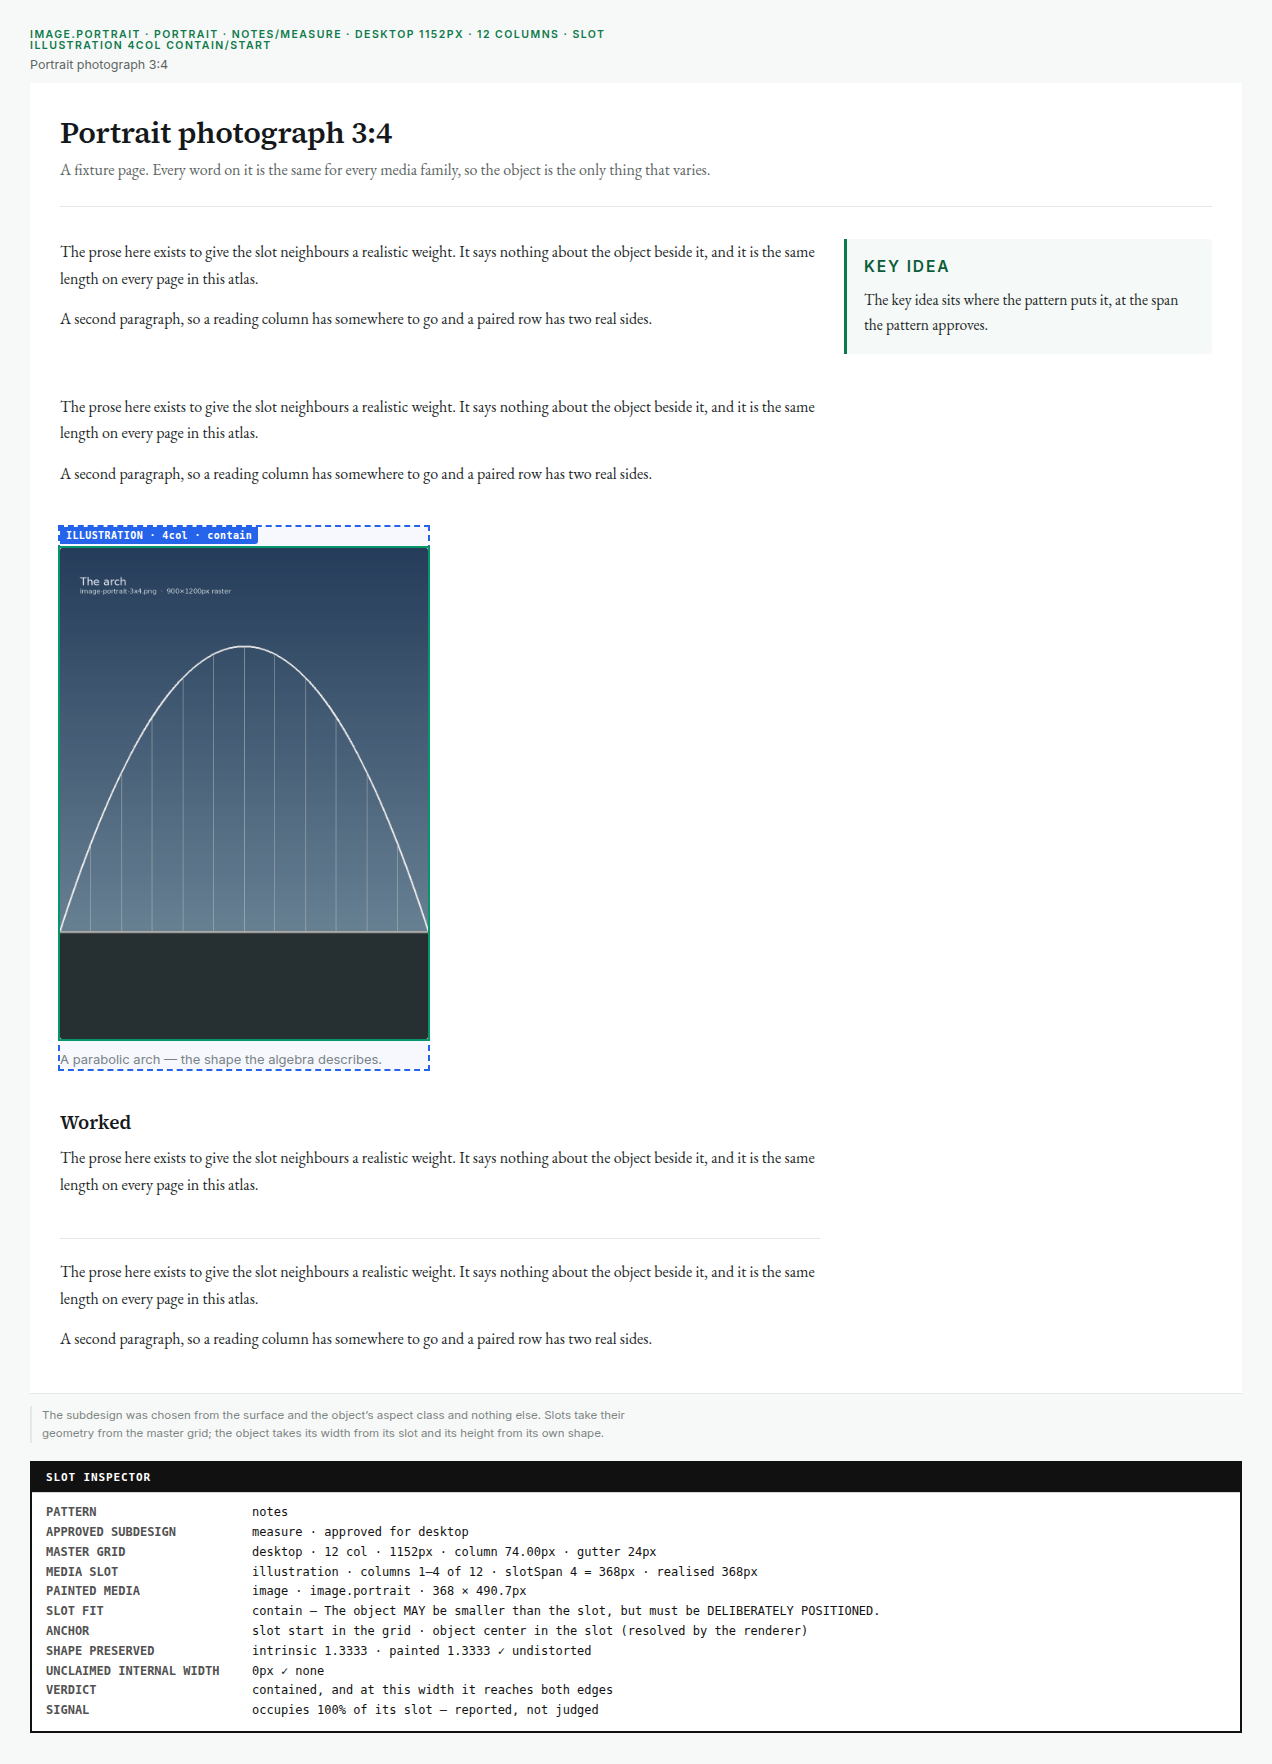
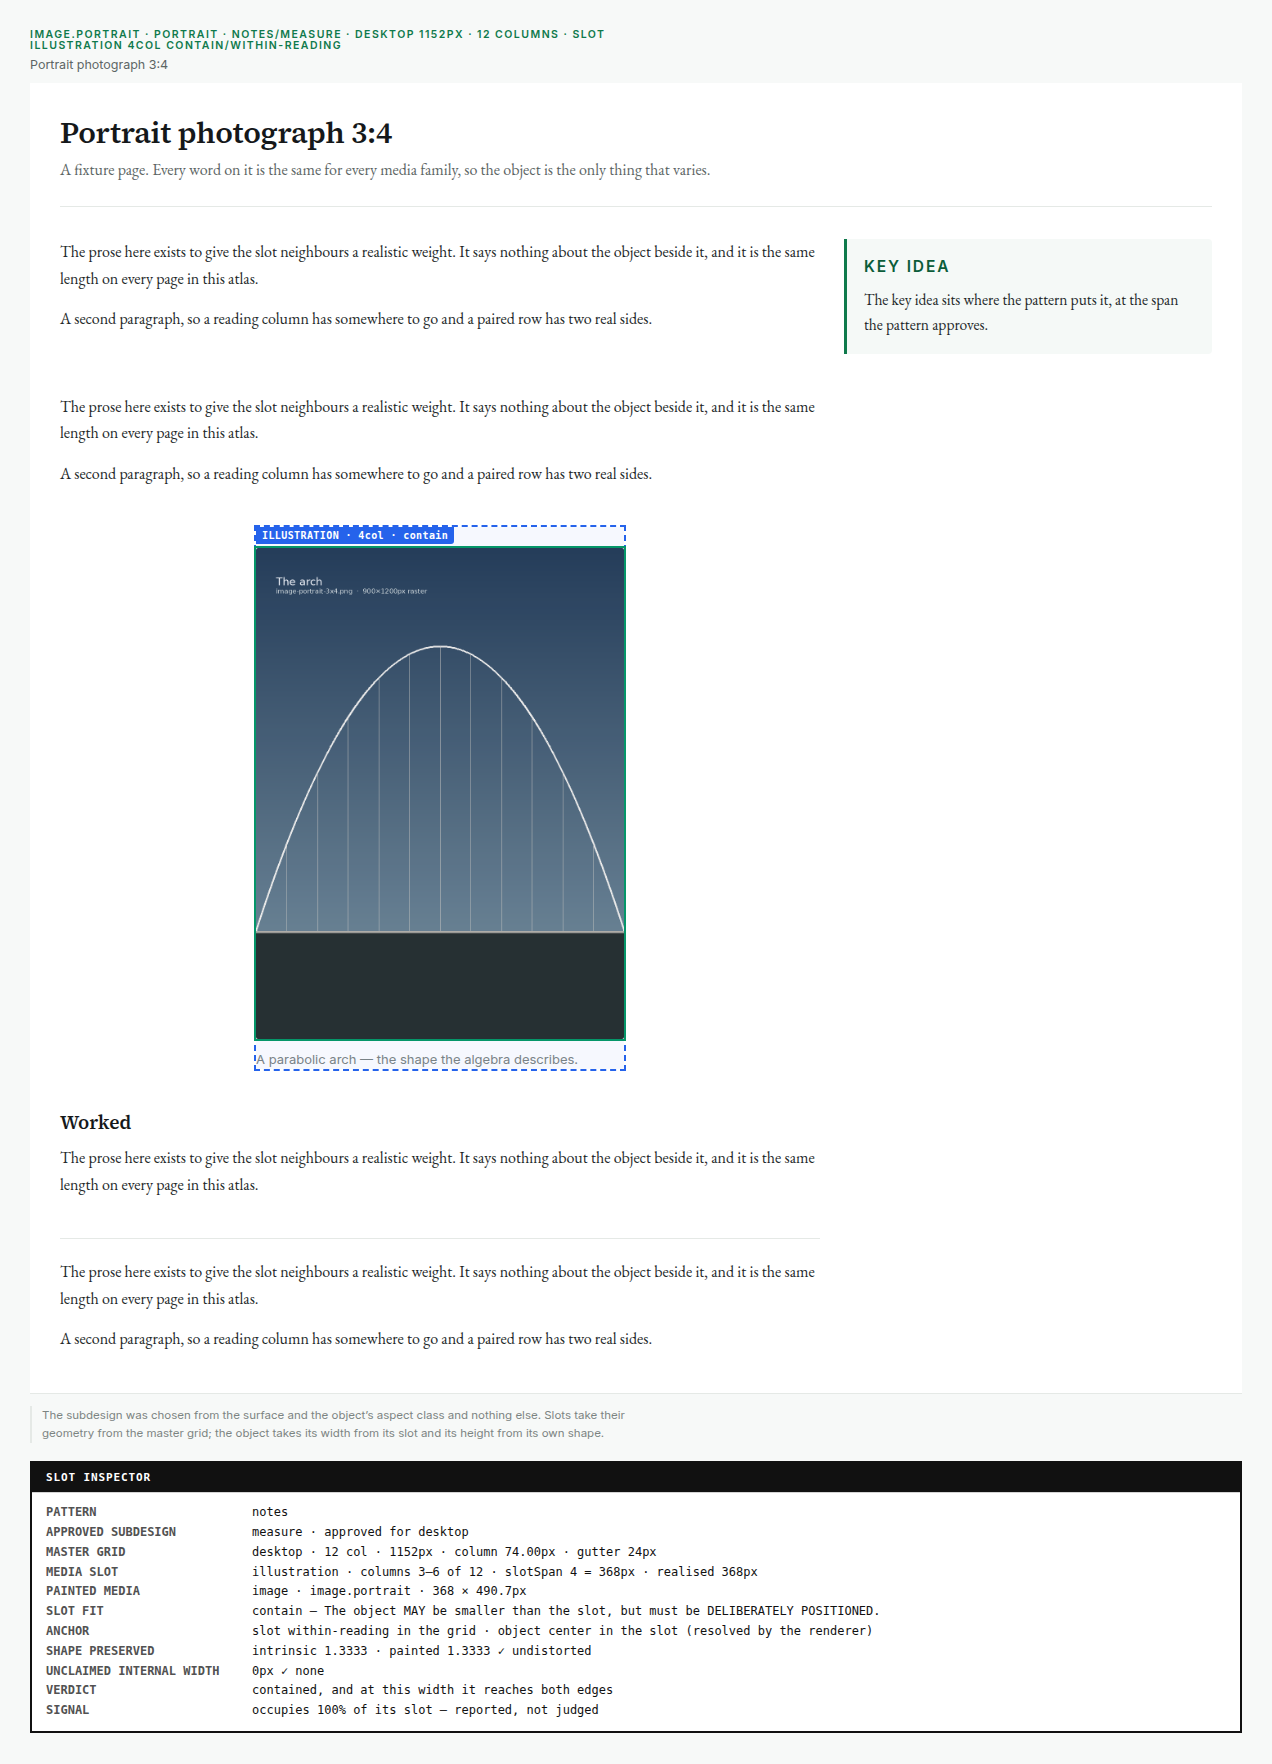
catalogue: adopt the approved compositions into the shipping layer
media.full/centred  ten columns on a CENTRED MEDIA STAGE (2-11, slotAnchor
                    `center`), the reading returning to its own left edge.
notes/measure       four columns centred WITHIN THE READING SPINE (3-6).

THE SHIPPING LAYER HAD NO READING SPINE, which is exactly why "centred within
the reading" could not be written down here at all: `center` means centred on
the PAGE, and the two approved compositions needed to mean different things by
"centred". The spine is now DERIVED from each subdesign's own prose rows — the
rows holding one prose slot and nothing else, so `notes`' paired brief cannot
make the "measure" the whole twelve columns — and `within-reading` joins the
anchor vocabulary, checked against that derivation rather than declared beside
it. One source, nothing for a second to disagree with.

THE STEP-1 NOTE IS PAID OFF. It read: a declared `anchorReason` is "a weaker
guard than the spine itself — a reason is prose and a spine is checkable — and
the spine arrives with the catalogue adoption pass, at which point this should
be tightened to require it." The per-row backstop now asks the spine. A row
centred inside the reading needs no excuse; one that is not still needs a
reason. That is strictly stronger than before, because the excuse no longer
covers the case the spine can decide. It fired on the first run against the new
notes areas, which is how I know it is reaching them.
[…]

diff --git a/CHANGELOG.md b/CHANGELOG.md
@@ -92,6 +92,30 @@ All notable changes to **Lesson Studio** are recorded here. Format follows
   directory that the run did not produce now fails. It caught its own six on the first run — including,
   embarrassingly, after two bugs of mine: the check ran *after* the failure report was printed, and its
   console line asserted "all produced" without looking.
+- **The shipping catalogue revised to the approved compositions** (`docs/atlas/composition/src/
+  patterns.json`, `vocabulary.json`, `scripts/lib/slots.mjs`, `scripts/composition-atlas.mjs`; no app
+  change — `lesson-studio.html` does not reference the catalogue). `media.full/centred` takes the
+  ten-column **centred media stage** (columns 2–11, `slotAnchor: center`), and `notes/measure` takes
+  the four-column illustration **centred within the reading spine** (columns 3–6).
+  - **The shipping layer had no reading spine, which is why "centred within the reading" could not be
+    written down here at all** — `center` means centred on the *page*. The spine is now **derived** from
+    each subdesign's own prose rows (the rows holding one prose slot and nothing else, so a paired brief
+    can't make the "measure" the whole twelve columns), and `within-reading` joins the anchor
+    vocabulary, checked against that derivation rather than asserted beside it.
+  - **The step-1 note has been paid off.** It said a declared `anchorReason` was "a weaker guard than
+    the spine itself — a reason is prose and a spine is checkable — and the spine arrives with the
+    catalogue adoption pass, at which point this should be tightened to require it." The per-row
+    backstop now asks the spine: a row centred inside the reading needs no excuse, and one that isn't
+    still needs a reason. Strictly stronger, because the excuse no longer covers the case the spine can
+    decide.
+  - **`notes/measure` at tablet keeps its left edge, with the real reason recorded.** A row centred
+    within the spine needs the spine's parity, and (7 − 4) is odd. The old reason said "the page has one
+    alignment origin", which is the rule that was overruled.
+  - Proven in the shipping atlases, not asserted: `image-portrait__notes__desktop` reports *columns 3–6
+    of 12 · slotSpan 4 = 368px · realised 368px · within-reading · undistorted · 0px unclaimed*, and
+    `graph-portrait__media-full__desktop` reports `center` at 10 columns. No page in the composition
+    atlas fills the `notes` illustration slot, so the slot-fit atlas is where that one is visible — a
+    gap already on the record.
 - **The two shipping-catalogue defects: `media.full/centred` and `notes/measure`** (`docs/atlas/
   composition/src/patterns.json`, `scripts/composition-atlas.mjs`, `scripts/lib/slots.mjs`; no app
   change — `lesson-studio.html` does not reference the catalogue). Both centred their object over
